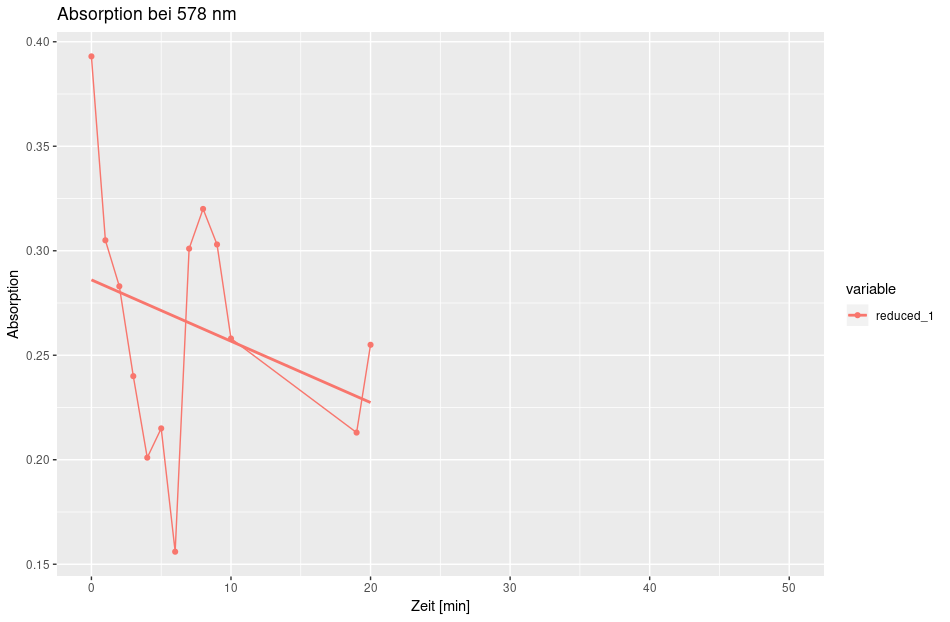
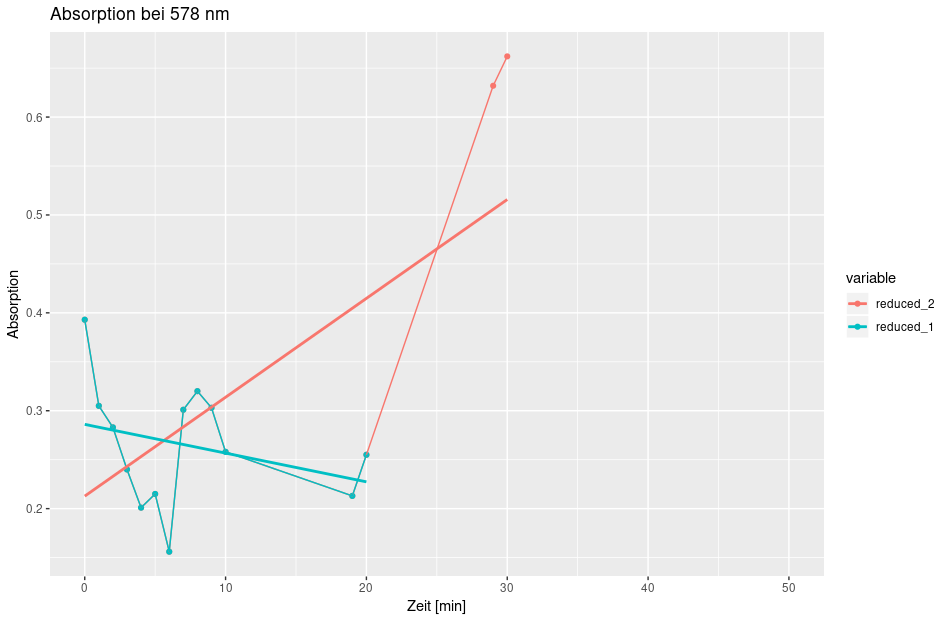
Further work on report of lab 8.

diff --git a/experiments/8_lys/doc/lys_8.tex b/experiments/8_lys/doc/lys_8.tex
@@ -22,6 +22,8 @@
 % Advanced tables
 \usepackage{tabu}
 \usepackage{longtable}
+\usepackage{dcolumn}
+\newcolumntype{d}[1]{D{.}{\cdot}{#1} }
 
 % Fancy tablerules
 \usepackage{booktabs}
@@ -128,6 +130,26 @@ ist, wird es zu einer Ausfällung des Proteins kommen.
 
 \subsection{Reaktionsmechanismus von Lysozym}
 
+Das aktive Zentrum von Lysozym liegt zwischen einem Aspartat an Stelle 52, und
+einer Glutaminsäure an Stelle 35.
+
+In einem ersten Schritt wird die 4-OH Abgangsgruppe des NAG-Restes durch Glu-35
+protoniert. Durch das Umklappen der Sessel-Konformation wird die abzuspaltende
+Bindung des Substrats schliesslich getrennt. Wasser führt dann dazu, dass die
+Bindung zwischen Substract und Asp-52 des Intermediats aufgehoben wird, und die
+ursprüngliche Konformation wiederhergestelt wird. \cite{lys}
+
+Dieser Mechanismus erklärt auch, wieso Lysozym nur in gefaltenem Zustand aktiv
+ist - in ungefaltenem Zustand sind Asp-52 und Glu-35 zu weit auseinander, als
+dass das Substrat dazwischen binden könnte.
+
+\begin{figure}[h]
+	\centering
+	\includegraphics[width=0.9\textwidth]{data/lys_mechanism}
+	\caption{Reaktionsmechanismus von Lysozym, aus \cite{lys}}
+	\label{fig:lys_mechanism}
+\end{figure}
+
 \subsection{Theoretisch mögliche Disulphid-Brücken in Lysozym}
 
 Lysozym hat vier Disulphid-Brücken, und damit acht Cystein-Reste. Damit sind
@@ -203,10 +225,330 @@ Bildung der korrekten Disulfid-Brücken bevorzugt wird.
 	\end{itemize}
 \end{itemize}
 
+\chapter{Methoden}
 
+\section{Vorbereitung Lysozym}
+
+\subsection{Natives Lysozym}
+
+\begin{itemize}
+	\item Ei mit Skalpellspitze ankratzen
+	\item \SI{1.3}{ml} Eiweiss entlang der Wand des Eis entnehmen, auf Eis stellen
+	\item \SI{0.05}{ml} des entnommenen Eiweiss in \SI{50}{ml} 1x TE lösen,
+		auf Eis stellen $\Rightarrow$ natives Lysozym
+\end{itemize}
+
+\subsection{Denaturiertes Lysozym}
+
+\begin{itemize}
+	\item \SI{0.2}{ml} des eentnommenen Eiweiss in \SI{2}{ml}
+		Guanidine-\ce{HCl} lösen, bei Raumtemperatur stehen lassen
+		$\Rightarrow$ denaturiertes Lysozym
+	\item Kurz vor der Aktivitätsmessung in \SI{20}{ml} 1x TE-Puffer unter
+		Rühren verdünnen, zwecks Renaturierung.
+\end{itemize}
+
+\subsection{Reduziertes Lysozym}
+
+\begin{itemize}
+	\item Rest des Eis \SIrange{5}{10}{min} kochen, unter Wasser abkühlen
+	\item \SI{1}{g} gekochtes Eiweiss zerdrücken, unter langsamen Rühren in
+		\SI{4.5}{ml} Guanidine-\ce{HCl} und \SI{39}{mg} DTE während
+		\SI{30}{min} lösen.
+	\item Mit Guanidine-\ce{HCl} auf \SI{6.0}{ml} auffüllen.
+	\item \SI{1}{ml} der klaren Eiweiss-Lösung entnehmen. Zwecks Entfernung
+		von DTE zweimal je eine Stunde gegen \SI{300}{ml}
+		Guanidine-\ce{HCl} dialysieren:
+	\item Nach zweifacher Dialyse \SI{0.2}{ml} Lösung aus Dialyseschlauch
+		entnehmen, und durch sehr langsames Zutropfen von GSSG-Puffer
+		auf \SI{20}{ml} verdünnen $\Rightarrow$ reduziertes Lysosym.
+\end{itemize}
+
+\section{Aktivitätsmessung}
+
+Folgende Messungen werden durchgeführt:
+\begin{itemize}
+	\item 2x natives Lysozym
+		\begin{itemize}
+			\item Morgen: t [min] = 0, 1, 2, \ldots, 10, 19, 20, 29, 30
+			\item Nachmittag: t [min] = 0, 1, 2, \ldots, 10, 19, 20, 29, 30
+		\end{itemize}
+	\item 2x denaturiertes Lysozym
+		\begin{itemize}
+			\item Erste Messung: t [min] = 0, 1, 2, \ldots, 10, 19, 20, 29, 30, 39, 49, 50
+			\item Zweite Messung (40 Minuten nach erster): t [min] = 0, 1, 2, \ldots, 10
+		\end{itemize}
+	\item 1x reduziertes Lysozym: t [min] = 0, 1, 2, \ldots, 10, 19, 20, 29, 30
+\end{itemize}
+
+Zur Vorbereitung der Assays werden \SI{10}{mg} Zellwände in \SI{2.5}{ml}
+Assay-Lösung suspendiert, und auf Eis gelagert. Die Assays werden dann wie
+folgt hergestellt. Wichtig ist, dass das Lysozym erst kurz vor der Messung
+hinzugegeben wird, da dadurch die Enzym-Aktivität startet:
+\\
+
+\begin{tabular}{|l|l|l|l|}
+	\hline
+	Assay-Lösung          & \SI{100}{\ul} & \SI{100}{\ul} & \SI{100}{\ul} \\
+	TE Puffer             & \SI{800}{\ul} & \SI{800}{\ul} & \SI{300}{\ul} \\
+	Natives Lysozym       & \SI{100}{\ul} &               &               \\
+	Denaturiertes Lysozym &               & \SI{100}{\ul} &               \\
+	Reduziertes Lysozym   &               &               & \SI{600}{\ul} \\
+	\hline
+\end{tabular}
+\\
+
+Die Messung der Absorption in Photometer findet bei \SI{578}{nm} statt.  Direkt
+vor und zwischen den Messungen müssen die Assays immer wieder gestürzt werden.
 
 \chapter{Resultat}
 
+\section{Messwerte}
+
+\begin{table}[h!]
+	\centering
+	\begin{tabular}{|l d{3} d{3} d{3} d{3} d{3}|}
+		\hline
+		Zeit [min] & \multicolumn{1}{c}{$R_1$} & \multicolumn{1}{c}{$D_2$} & \multicolumn{1}{c}{$D_1$} & \multicolumn{1}{c}{$N_2$} & \multicolumn{1}{c|}{$N_1$} \\
+		\hline
+		0  & 0.393 & 0.346 & 0.413 & 0.392 & 0.372 \\
+		\hline
+		1  & 0.305 & 0.354 & 0.348 & 0.237 & 0.303 \\
+		\hline
+		2  & 0.283 & 0.333 & 0.376 & 0.298 & 0.245 \\
+		\hline
+		3  & 0.24  & 0.349 & 0.371 & 0.298 & 0.313 \\
+		\hline
+		4  & 0.201 & 0.297 & 0.381 & 0.217 & 0.309 \\
+		\hline
+		5  & 0.215 & 0.354 & 0.385 & 0.181 & 0.335 \\
+		\hline
+		6  & 0.156 & 0.305 & 0.359 & 0.231 & 0.316 \\
+		\hline
+		7  & 0.301 & 0.294 & 0.363 & 0.22  & 0.318 \\
+		\hline
+		8  & 0.32  & 0.338 & 0.389 & 0.216 & 0.277 \\
+		\hline
+		9  & 0.303 & 0.249 & 0.297 & 0.232 & 0.333 \\
+		\hline
+		10 & 0.258 & 0.308 & 0.354 & 0.217 & 0.299 \\
+		\hline
+		19 & 0.213 &       & 0.248 & 0.234 & 0.277 \\
+		\hline
+		20 & 0.255 &       & 0.333 & 0.196 & 0.321 \\
+		\hline
+		29 & 0.632 &       & 0.203 & 0.175 & 0.234 \\
+		\hline
+		30 & 0.662 &       & 0.28  & 0.133 & 0.199 \\
+		\hline
+		39 &       &       & 0.298 &       & 0.181 \\
+		\hline
+		40 &       &       & 0.139 &       & 0.097 \\
+		\hline
+		49 &       &       & 0.278 &       & 0.269 \\
+		\hline
+		50 &       &       & 0.34  &       & 0.222 \\
+		\hline
+	\end{tabular}
+	\caption{Absorption bei \SI{578}{nm} von 5 Lysozym-Messreihen.}
+	\label{table:1}
+\end{table}
+
+In Tabelle \ref{table:1} sind die Rohdaten der fünf Mess-Serien der Lysozym-Lösungen gelistet. Hierbei sind:
+\begin{description}
+	\item[$N_1$] Erste Messung nativen Lysozyms (Morgen)
+	\item[$N_2$] Zweite Messung nativen Lysozyms (Nachmittag)
+	\item[$D_1$] Erste Messung denaturierten Lysozyms
+	\item[$D_2$] Zweite Messung denaturierten Lysozyms
+	\item[$R_1$] Erste Messung reduziertes Lysozyms
+\end{description}
+
+Allen Messungen ist gemein, dass sie eine sehr hohe Varianz haben. Potentiell
+stammt diese daher, dass die Zellwände in den Assays sich sehr schnell setzten
+- und damit der gemessene Absorptionswert stark davon abhängt, ob fünf oder 15
+Sekunden vor der Messung das letzte Mal geschüttelt wurde.
+
+Weiterhin sind die letzten zwei Messwerte des reduzierten Lysozyms stark
+erhöht. Während der Durchführung war der Parafilm auf der Küvette des
+reduzierten Lysosyms nicht satt, was teilweise zu Verlust der Probe führte.
+Dies könnte dazu geführt haben, dass gegen Ende der Messreihe nicht mehr
+genügend Flüssigkeit in der Küvette war und damit beispielsweise ein Klumpen
+Zellwände an der Wand haftete.
+
+Die folgenden Abbildungen stellen den zeitlichen Verlauf der Absorption von Licht der Wellenlänge \SI{578}{nm}, durch die Assays mit nativem (Abbildung \ref{fig:absorption_native}), denaturiertem (Abbildung \ref{fig:absorption_denat}) und reduzierten (Abbildung \ref{fig:absorption_reduced}) Lysozym dar.
+
+Bei nativem und denaturiertem Lysozym zeigt eine lineare Regression einen klare
+Abnahme der Absorption über Zeit - ein Resultat des Abbaus der Zellwände durch
+das Lysozym. Bei reduziertem Lysozym ist dieser Trend ersichtlich, solange die
+beiden letzten Messwerte ignoriert werden (Messreihe ``reduced\_1''). Werden
+die beiden letzten Messwerte einbezogen, ist kein solcher Trend ersichtlich
+(Messreihe ``reduced\_2'').
+
+\begin{figure}[h]
+	\centering
+	\includegraphics[width=0.9\textwidth]{data/absorption_nativ}
+	\caption{Absorption von nativem Lysozym}
+	\label{fig:absorption_native}
+\end{figure}
+
+\begin{figure}[h]
+	\centering
+	\includegraphics[width=0.9\textwidth]{data/absorption_denat}
+	\caption{Absorption von denaturiertem Lysozym}
+	\label{fig:absorption_denat}
+\end{figure}
+
+\begin{figure}[h]
+	\centering
+	\includegraphics[width=0.9\textwidth]{data/absorption_reduced}
+	\caption{Absorption von reduziertem Lysozym}
+	\label{fig:absorption_reduced}
+\end{figure}
+
+\section{Standardisierte Aktivität}
+
+Um die Messwerte der drei Eiweisslösungen - welche in unterschiedlichem Masse
+verdünnt wurden - zu vergleichen, wird die Aktivität definiert als:
+
+\[
+	\text{Aktivität} = \frac{\Delta \text{OD}_{578 / \text{min}}}{0.01} \cdot F
+\] 
+
+Wobei $\text{OD}_{578 / \text{min}}$ die Veränderung der gemessenen Optischen
+Dichte bei \SI{578}{nm} während einer Minute, und $F$ der Verdünnungsfaktor der
+Probe - definiert als Inverses der Produkte der einzelnen Verdünnungen - ist.
+
+\subsection{Verdünnungsfaktoren}
+
+Folgende Verdünnungsfaktoren ergeben sich damit:
+\begin{itemize}
+	\item $F_{\text{nativ}} = \left (
+			\frac{\SI{0.05}{ml}}{\SI{50.05}{ml}} \cdot
+	                \frac{\SI{100}{ul}}{\SI{1000}{ul}}
+		\right )^{-1} = 10010$
+	\item $F_{\text{denat}} = \left (
+			\frac{\SI{0.2}{ml}}{\SI{2.2}{ml}} \cdot
+			\frac{\SI{1}{ml}}{\SI{21}{ml}} \cdot
+			\frac{\SI{100}{\ul}}{\SI{1000}{\ul}}
+		\right )^{-1} = 2310$
+	\item $F_{\text{reduced}} = \left (
+			\frac{\SI{1}{ml}}{\SI{6}{ml}} \cdot
+			\frac{\SI{0.2}{ml}}{\SI{20}{ml}} \cdot
+			\frac{\SI{600}{\ul}}{\SI{1000}{\ul}}
+		\right )^{-1} = 1000$
+\end{itemize}
+
+\section{Aktivität nativen Lysozyms}
+
+Die durchschnittliche Aktivität von frischem Lysozym innert der ersten 10
+Minuten ist gegeben als:
+
+\[
+	A_0 = \frac{0.372 - 0.299}{10 \cdot 0.01} \cdot 10010 = 7307.3
+\]
+
+\section{Aktivität nativen Lysozyms über Zeit}
+
+Die Aktivität nativen Lysozyms im Laufe der Zeit - als absolute Werte sowohl
+als Prozentsatz von $A_0$ - ist gegeben als:
+\\
+
+\begin{tabu}{|l|l|l|}
+	\hline
+	Zeit [min] & Aktivität & Aktivität (\% $A_0$) \\
+	\hline
+	$A_0$ & 7307.3 & 100\% \\
+	10 & 34034 & 466\% \\ 
+	20 & -44044 & -603\% \\ 
+	30 & 35035 & 479\% \\ 
+	\hline
+\end{tabu}
+\\
+
+Aufgrund der hohen Varianz der Messwerte lässt sich die erwartete Limitierung
+der Enzymaktivität aufgrund Substrat-Limitation nicht sehen.
+
+\section{Aktivität natives Lysozym Morgen / Nachmittag}
+
+Die nachstehende Tabelle vergleicht die Enzymaktivität des frischen Lysozyms
+von Morgen, mit jener vom Nachmittag.
+\\
+
+\begin{tabu}{|l|l|l|}
+	\hline
+	Zeit [min] & Aktivität Morgen & Aktivität Nachmittag \\
+	\hline
+	$A_0$ & 7307.3 & 17517.5 \\
+	10 & 34034 & 38038 \\ 
+	20 & -44044 & 42042 \\ 
+	\hline
+\end{tabu}
+\\
+
+Aufgrund der gemssenen Werte scheint die Aktivität des Lysozyms durch gekühlte
+Lagerung für einige Stunden nicht gelitten zu haben, was darauf hindeutet, dass
+sich gekühltes Lysozym kaum spontan entfaltet. Wegen der hohen Varianz ist
+diese Aussage jedoch mit Vorsicht zu geniessen.
+
+\section{Renaturierungsausbeute des denaturierten Eiweiss}
+
+Um nicht aufgrund von Substratlimitation falsche Aussagen zu treffen - sowie um
+die hohe Varianz mittels grosser Dichte von Messpunkten zu limitieren, werden
+hier nur die $A_0$ Werte - dh mittlere Aktivität innert der ersten 10 Minuten -
+verglichen.
+\\
+
+\begin{tabu}{|l|l|l|}
+	\hline
+	Messreihe & $A_0$ & In \% von $A_0$ von $N_1$ \\
+	\hline
+	$N_1$ & 7307.3 & 100\% \\
+	$D_1$ & 1362.9 & 18.7\% \\
+	$D_2$ & 877.8 & 12.0\% \\
+	\hline
+\end{tabu}
+\\
+
+Die mittlere Ausbeute von denaturiertem Lysozym liegt somit bei 15.35\%.
+
+\section{Renaturierungsausbeute des reduzierten Eiweiss}
+
+Analog des vorherigen Abschnittes folgt die Renaturierungsausbeute des
+reduzierten Eiweiss als:
+
+\begin{align*}
+	A_0(N_1) & = 7307.3 \\
+	A_0(R_1) & = 1350 \\
+	\text{Renaturierungsausbeute} & = \frac{1350}{7307.3} = 0.185
+\end{align*}
+
+Die Renaturierungsausbeute von reduziertem Lysozym liegt somit bei 18.5\%.
+
+\section{Vergleich der Renaturierungsausbeuten}
+
+Wie erwartet liegt die enzymatische Aktivität von renaturiertem unter jener von
+nativem Lysozym. Folglich kann nicht alles Lysozyim im TE-Puffer renaturiert
+werden.
+
+Unerwarteterweise liegt $A_0$ des reduzierten Lysozyms allerdings über $A_0$
+des denaturierten Lysozyms. Da beim reduzierten Lysozym zusätzlich die
+Disulphid-Brücken reduziert wurden, wäre zu erwarten gewesen, dass sich weniger
+Lysozym wieder korrekt faltet, und damit enzymatisch aktiv ist.
+
+Dies wird eine Folge der verschiedenen Fehlerquellen sein, die das Experiment
+beinflusst haben.
+
 \chapter{Fazit}
+
+Aufgrund der extrem hohen Varianz der Messwerte konnten gewisse Erwartungen
+nicht nachgewiesen werden. Zusätzlich ist das Vertrauen in die Aussagen die
+gemacht wurden relativ klein, da sie potentiell nur ein Resultat von
+Schwankungen der Messwerte sind.
+
+Würde das Experiment wiederholt werden, müsste zwingend die Quelle der hohen
+Varianz gefunden, und soweit möglich eliminiert werden.
+
+\bibliographystyle{plain}
+\bibliography{references}
 
 \end{document}
